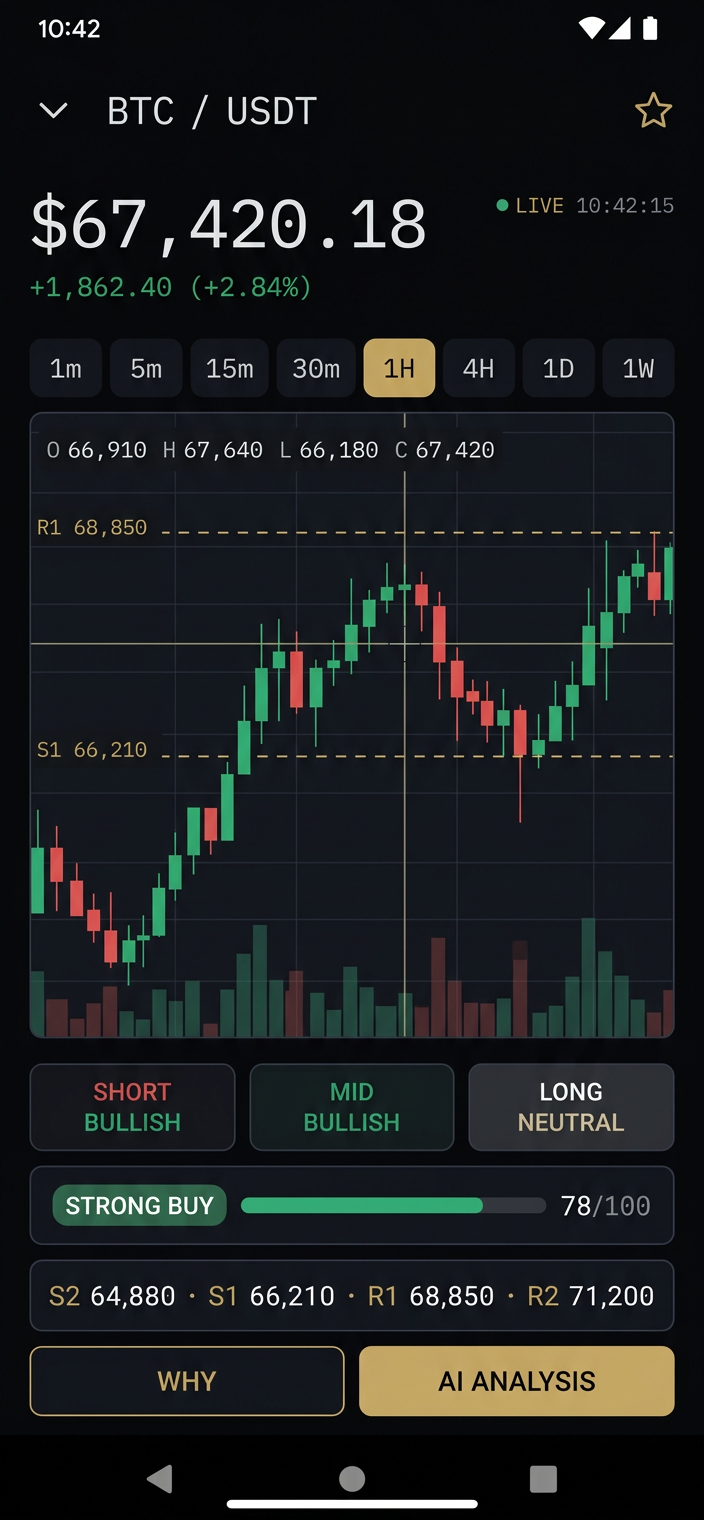
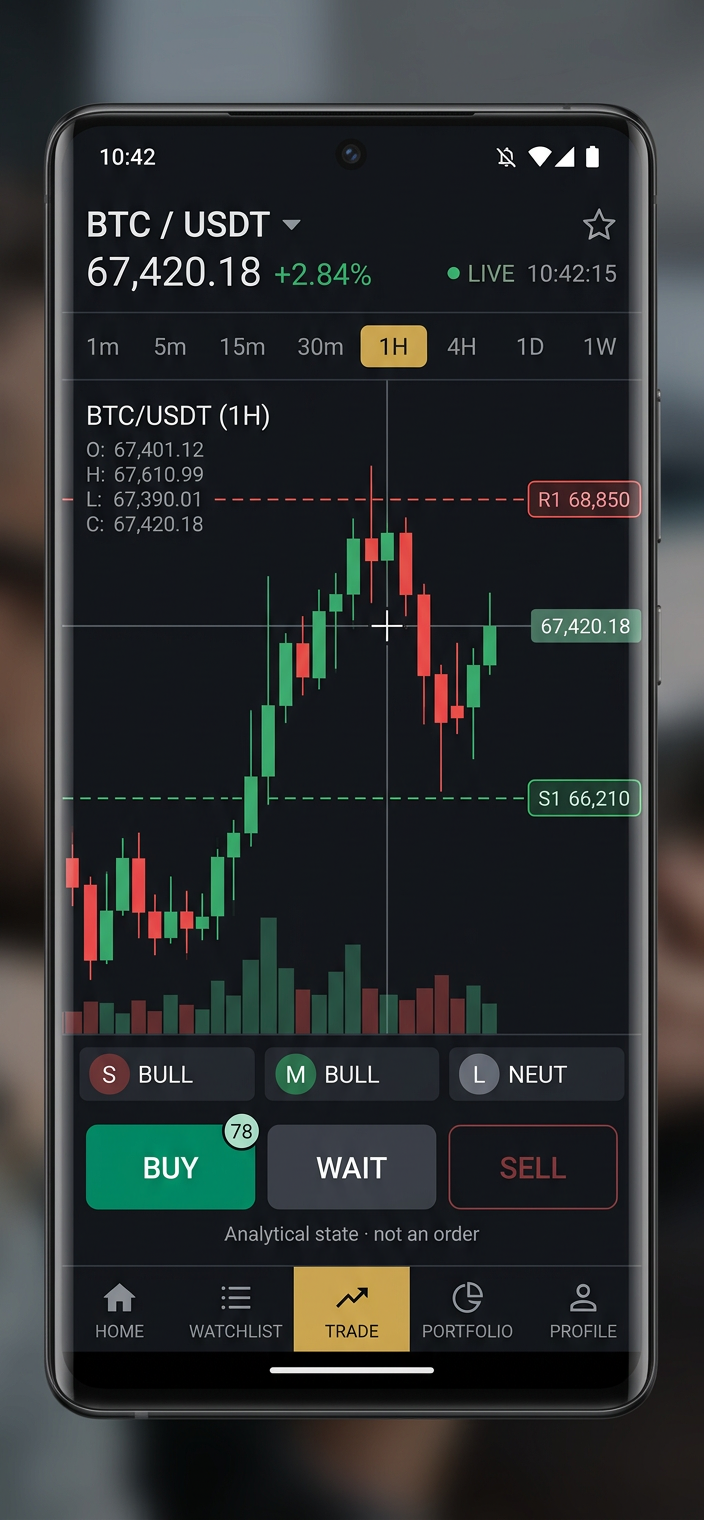
docs(design): restyle AURUM as a pocket broker
Revision after review: quote blotter home, center TRADE tab,
BUY/WAIT/SELL analytical ticket, denser broker rows. Still no
order execution. Implementation waits for approval.

diff --git a/docs/PHASE_1_REDESIGN_AURUM_TERMINAL.md b/docs/PHASE_1_REDESIGN_AURUM_TERMINAL.md
@@ -71,23 +71,23 @@ The product problem is not “we have no engine.” It is: **the engine is hidde
 
 ## 2. New product vision
 
-**AURUM TERMINAL** is a pocket market-intelligence desk.
+**AURUM POCKET BROKER** is a broker desk that fits in one hand.
 
-It should feel like:
+It should feel like **Zerodha Kite / Webull / a compact dealing ticket** — not a magazine, not a desktop terminal, not a luxury brochure.
 
 ```
-professional trading terminal
+pocket broker quotes
         ×
-modern mobile trading app
+one-thumb chart ticket
         ×
-live market monitor
+live tape
         ×
-AI market analyst
+BUY / WAIT / SELL analytical state
         ×
-personal trading intelligence
+AI that explains the ticket
 ```
 
-It is **not** an exchange. It does **not** place orders, hold coins, or promise outcomes.
+It is **not** an exchange. The BUY and SELL controls open the **why**, they do **not** place orders, hold coins, or move money.
 
 ### The first-second promise
 
@@ -106,7 +106,7 @@ When the user opens AURUM they must immediately know:
 
 ### One sentence
 
-> AURUM watches the market, scores the evidence, and explains the signal — on a phone, in real time, without pretending to be a broker.
+> AURUM feels like a pocket broker: live quotes, a chart ticket, and a BUY / WAIT / SELL state you can tap to see the evidence — without ever placing an order.
 
 ### Brand character
 
@@ -194,19 +194,19 @@ This is an **automated analytical assessment**, never advice, never a win-rate, 
 
 ## 4. New navigation structure
 
-Five primary destinations. No sixth tab. No 10-item dock.
+Pocket-broker dock. Five destinations. The **center tab is TRADE** (chart + ticket), like a real broker app.
 
 ```text
-HOME     MARKETS     AI     WATCH     PORTFOLIO
+WATCH     MARKETS     TRADE     PORTFOLIO     MORE
 ```
 
 | Tab | Job |
 | --- | --- |
-| **HOME** | Live briefing: market pulse, AI brain, top signal, movers, watchlist strip. |
-| **MARKETS** | Universe, heatmap entry, search, gainers/losers/volume/trending. |
-| **AI** | Market analyst workspace (brief + ask + history). Not a floating chat bubble. |
-| **WATCH** | Intelligent watchlist: price, trend, signal, strength, volatility. |
-| **PORTFOLIO** | Manual holdings analytics. AURUM never custodies. |
+| **WATCH** | Default home. Broker quote blotter: last, change, %, signal. |
+| **MARKETS** | Universe, gainers/losers/volume, heatmap, scanner entry. |
+| **TRADE** | Full-bleed chart + BUY / WAIT / SELL analytical ticket. |
+| **PORTFOLIO** | Manual positions blotter + P/L. No custody. |
+| **MORE** | AI analyst, alerts, news, journal, profile, security. |
 
 ### Secondary (search, More, sheets, deep links)
 
@@ -306,11 +306,17 @@ Notifications: on/off, priority, quiet hours, asset selection. No spam.
 
 ## 6. New premium UI design direction
 
-### Name: AURUM TERMINAL
+### Name: AURUM POCKET BROKER
 
-Luxury comes from **precision and live data**, not from gold gradients.
+This revision drops the editorial “AI magazine” layout. The phone must feel like a **dealing app**:
 
-Think: a dark metal instrument panel. Champagne hairlines. Tabular prices that do not jump. One accent. Controlled bull / bear. Never a carnival.
+- Quote blotter first, not greeting cards
+- Sticky symbol + last + %
+- Chart owns the TRADE tab
+- Three-button ticket: **BUY · WAIT · SELL** (current state highlighted)
+- Tiny caption on every ticket: `Analytical · not an order`
+- Dense 52–56 dp rows, tabular last / chg / %
+- Gold only on the wordmark and selected tab — green/red do the market work
 
 ### Color system (new tokens — not the old Obsidian set)
 
@@ -505,12 +511,12 @@ I have **not** started the rebuild.
 
 Please review:
 
-- [ ] Product vision (AURUM TERMINAL, crypto, phone-first)
-- [ ] Five-tab navigation: Home / Markets / AI / Watch / Portfolio
-- [ ] BUY / SELL / WAIT / STRONG variants with transparent scoring
-- [ ] AI as analyst on top of the engine, not a chatbot toy
-- [ ] New metal-on-void visual system
-- [ ] Eight mobile mockups
+- [ ] Product vision (AURUM POCKET BROKER — quotes + chart ticket)
+- [ ] Five-tab dock: Watch / Markets / TRADE / Portfolio / More
+- [ ] BUY / WAIT / SELL ticket (analytical, never an order)
+- [ ] AI explains the ticket from More, not a chatbot toy
+- [ ] Dense broker blotter visual system
+- [ ] Eight pocket-broker mobile mockups
 - [ ] KEEP / REFACTOR / REPLACE / REMOVE of existing code
 - [ ] Roadmap only after approval
 
